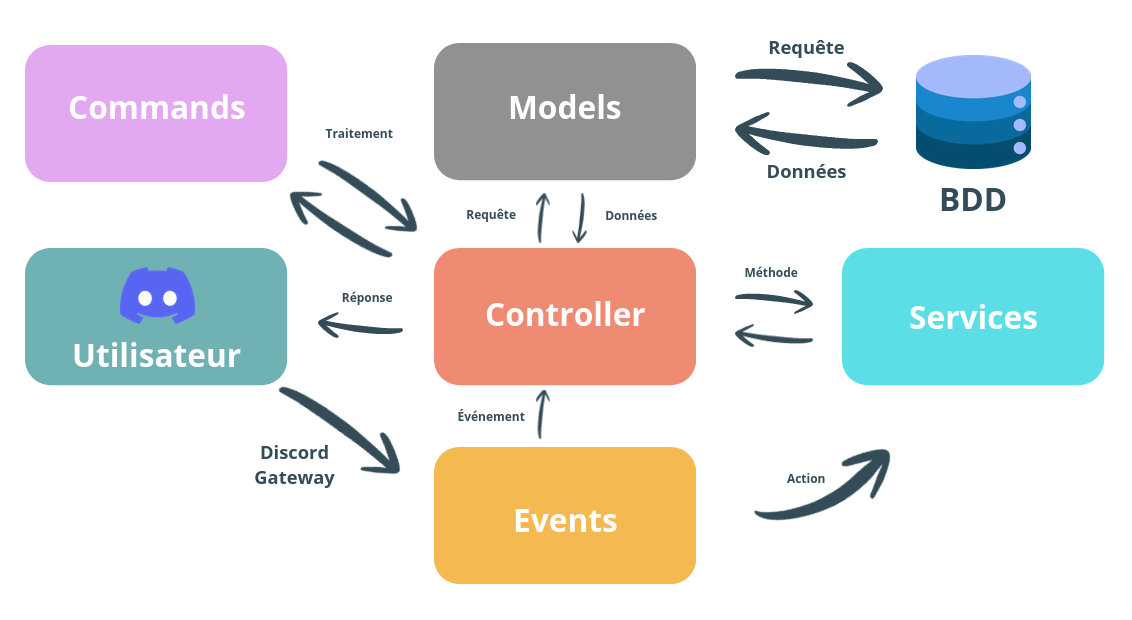
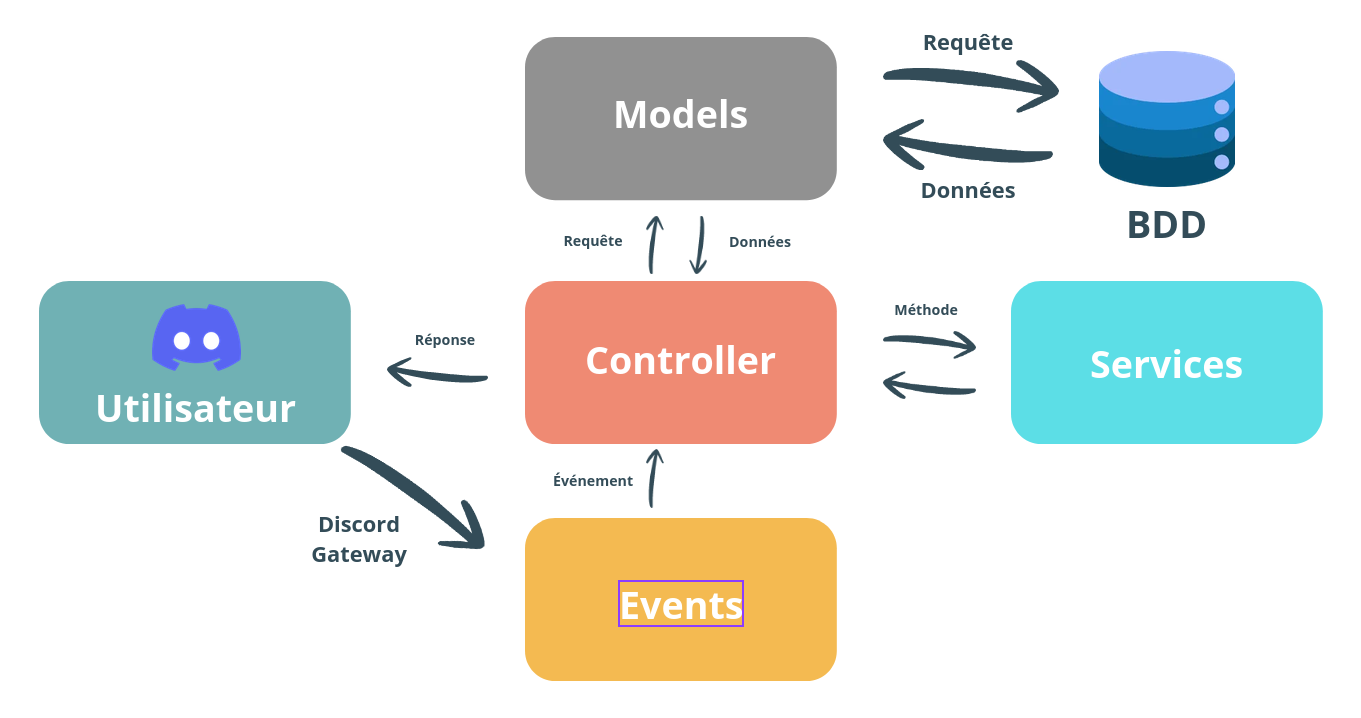
ajout des explications des boutons et modification de l'architecture

diff --git a/controllers/CounterController.js b/controllers/CounterController.js
@@ -25,21 +25,22 @@ class CounterController extends Controller {
         const separator = { type: 14, divider: true, spacing: 2 };
         const header = { type: 10, content: "# Configuration du Comptage\n\nBienvenue dans le panneau de configuration du jeu de comptage !" };
         const desc = { type: 10, content: `Le jeu est actuellement ${active === 1 ? "activé" : "désactivé"} dans ${channelNameMessage}.\n\nUtilisez les boutons ci-dessous pour configurer le jeu sur votre serveur.` };
-        const btnRow = { type: 1,
-            components: [
-                { type: 2, style: 1, label: "Publier le jeu", emoji: {id: "1528498321889558549"}, custom_id: "c_setup" },
-                { type: 2, style: 4, label: "Réinitialiser", emoji: {id: "1528497532424945834"}, custom_id: "c_reset" },
-            ]
-        };
+        const btnRow = { type: 1, components: [ { type: 2, style: 1, label: "Publier le jeu", emoji: {id: "1528498321889558549"}, custom_id: "c_setup" } ] };
         const helpText = { type: 10, content: "Si vous avez besoin d'explications sur les boutons, utilisez le menu ci-dessous" };
         const helpRow = { type: 1,
             components: [{
                 type: 3, custom_id: "counter_help_select", placeholder: "Explication des boutons",
                 options: [
-                    { label: "Publier le jeu", value: "expl_setup", description: "Explication sur la publication du jeu", emoji: {name: "ℹ️"} }
+                    { label: "Publier le jeu", value: "expl_setup", description: "Explication sur la publication du jeu", emoji: {name: "ℹ️"} },
+                    { label: "Réinitialiser", value: "expl_reset", description: "Explication sur la réinitialisation du jeu", emoji: {name: "ℹ️"} },
+                    { label: "Activer/Désactiver le jeu", value: "expl_enable_disable", description: "Explication sur l'activation/désactivation du jeu", emoji: {name: "ℹ️"} }
                 ]
             }]
         };
+
+        if (comptageInfo) {
+            btnRow.components.push({ type: 2, style: 4, label: "Réinitialiser", emoji: {id: "1528497532424945834"}, custom_id: "c_reset" });
+        }
 
         if (active === 1) {
             btnRow.components.push({ type: 2, style: 4, label: "Désactiver le jeu", custom_id: "c_disable" });
@@ -64,11 +65,21 @@ class CounterController extends Controller {
                     const desc = { type: 10, content: "Ce bouton permet de choisir un salon dans lequel le jeu de comptage sera appliqué." };
                     const expilcationImage = { type: 12, items: [ { media: { url: "https://tiago.cadenassecode.fr/Luna/.bot/app/.document/expilcationImageCounterPublication.png"}, description: "explication sur le bouton de publication du jeu" } ]};
                     return { flags: MessageFlags.IsComponentsV2 | MessageFlags.Ephemeral,
-                        components: [{
-                            type: 17, 
-                            accent_color: 0x4b5ba9, 
-                            components: [ header ,separator ,desc, expilcationImage]
-                        }]
+                        components: [{ type: 17, accent_color: 0x4b5ba9, components: [ header ,separator ,desc, expilcationImage] }]
+                    };
+                case "expl_reset":
+                    const separatorReset = { type: 14, divider: true, spacing: 2 };
+                    const headerReset = { type: 10, content: "# Explication sur la réinitialisation du jeu" };
+                    const descReset = { type: 10, content: "Ce bouton permet de réinitialiser le jeu de comptage. Toutes les données seront effacées." };
+                    return { flags: MessageFlags.IsComponentsV2 | MessageFlags.Ephemeral,
+                        components: [{ type: 17, accent_color: 0x4b5ba9,  components: [ headerReset ,separatorReset ,descReset] }]
+                    };
+                case "expl_enable_disable":
+                    const separatorEnableDisable = { type: 14, divider: true, spacing: 2 };
+                    const headerEnableDisable = { type: 10, content: "# Explication sur l'activation/désactivation du jeu" };
+                    const descEnableDisable = { type: 10, content: "Ce bouton permet d'activer ou de désactiver le jeu de comptage." };
+                    return { flags: MessageFlags.IsComponentsV2 | MessageFlags.Ephemeral,
+                        components: [{ type: 17, accent_color: 0x4b5ba9, components: [ headerEnableDisable ,separatorEnableDisable ,descEnableDisable] }]
                     };
             }  
         } else if (interaction.customId === "c_channel_select") {
@@ -90,15 +101,15 @@ class CounterController extends Controller {
                     };
             
                     return { flags: MessageFlags.IsComponentsV2 | MessageFlags.Ephemeral,
-                        components: [{
-                            type: 17, 
-                            accent_color: 0x4b5ba9, 
-                            components: [ header ,separator ,channelRow ]
-                        }]
+                        components: [{ type: 17, accent_color: 0x4b5ba9, components: [ header ,separator ,channelRow ] }]
                     };
                 case "c_reset":
                     await Comptage.Delete(interaction.guild.id);
-                    return { content: "Le jeu de comptage a été réinitialisé.", flags: MessageFlags.Ephemeral };
+                    return {
+                        update: true,
+                        data: await CounterController.createCounterComponents(interaction.guild.id)
+                    };
+
                 case "c_enable":
                     await Comptage.updateActive(interaction.guild.id, 1);
 

diff --git a/index.js b/index.js
@@ -4,7 +4,7 @@ import client from "./core/Client.js";
 import "./core/Command.js";
 
 import "./events/readyEvent.js";
-import "./commands/interactionCommand.js";
+import "./events/interactionCreateEvent.js";
 import "./events/MessageCreateEvent.js";
 import "./events/guildCreate.js";
 import "./events/guildDelete.js";

diff --git a/README.md b/README.md
@@ -66,6 +66,7 @@ Ce projet utilise une **architecture MVC modifiée** en JavaScript pour correspo
 ├── index.js                   # Point d'entrée
 ├── core/                      # Cœur du framework
 │   ├── Client.js              # Configuration Discord.js
+│   ├── Command.js              # Gestion des commandes /
 │   ├── Controller.js          # Contrôleur de base
 │   ├── Database.js            # Gestion de la bdd
 │   ├── Model.js               # Modèle de base
@@ -75,7 +76,6 @@ Ce projet utilise une **architecture MVC modifiée** en JavaScript pour correspo
 ├── services/                  # Services métier
 ├── events/                    # Gestion d'événements
 │   └── readyEvent.js          # Événement de démarrage
-├── commands/                  # Commandes slash du bot
 └── variable/                  # Variables globales
     └── system_prompt.js       # Prompt système pour l'IA
 ```